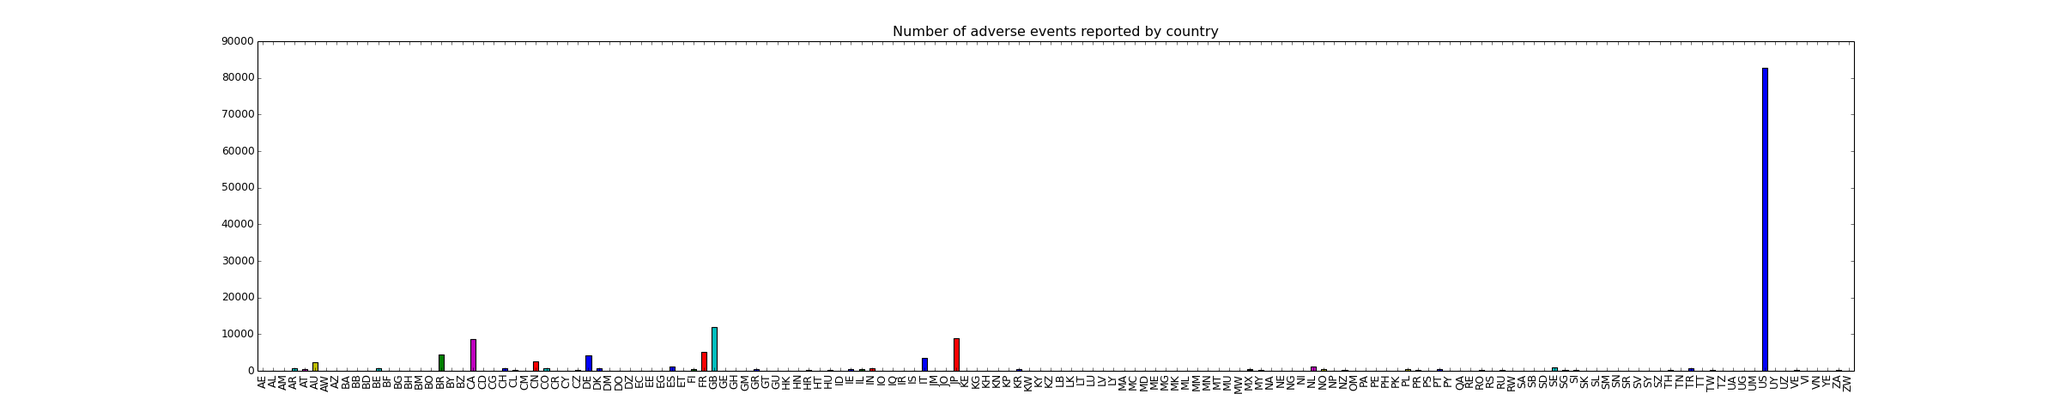
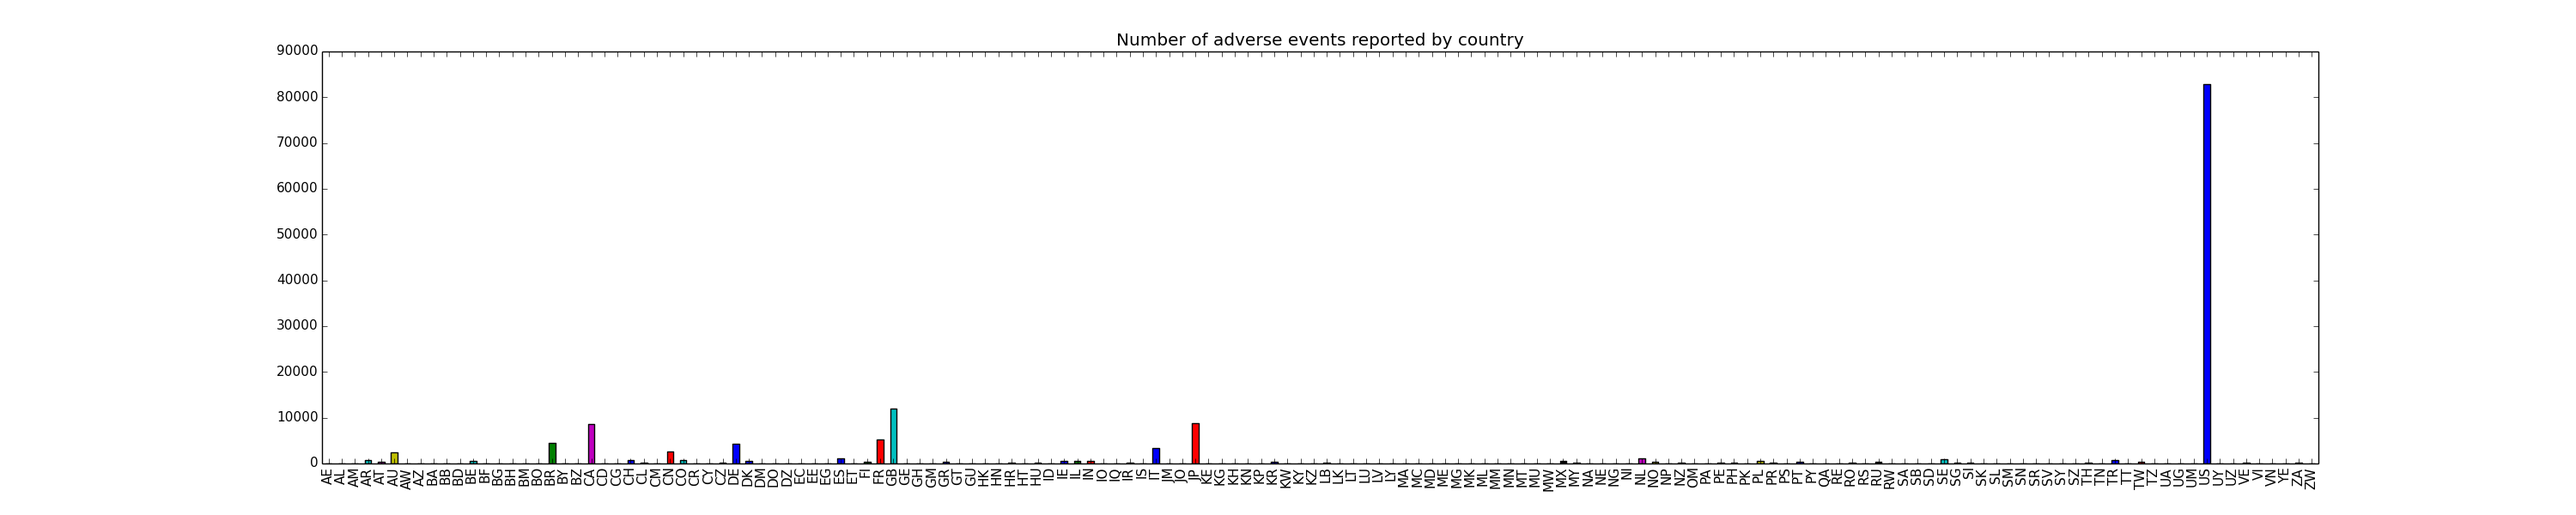
normalised reactions, heatmap

diff --git a/src/reporter.py b/src/reporter.py
@@ -3,6 +3,8 @@
 import matplotlib.pyplot as plt
 import pandas
 
+from scipy.spatial.distance import euclidean, pdist, squareform
+
 from src.openfda import get_reactionmeddrapt_event_count_by_occurcountry, OpenFDA
 
 
@@ -31,25 +33,35 @@ class Report:
             else:
                 # terms for which no results are returned need to be removed
                 missing_terms.append(r)
-        final_df = pandas.concat(df_append, axis = 1)
+        final_df = pandas.concat(df_append, axis=1)
         final_df.columns = [x for x in self.reaction_counts.term[90:100] if x not in missing_terms]
         print(final_df.shape)
-        return final_df
+        return final_df.fillna(0)
 
     def report_reactionmeddrapt_by_occurcountry(self):
         df = self.get_reactionmeddrapt_by_occurcountry()
 
-        fig = plt.figure()
+        plt.figure()
         df.sum(axis=1).plot(kind="bar", figsize=(30, 6), fontsize=11)
         plt.title("Number of adverse events reported by country")
-        fig.savefig("../output/reactions_by_country.png", dpi=fig.dpi)
+        plt.gcf().savefig("../output/reactions_by_country.png", dpi=100)
 
-        fig = plt.figure()
+        plt.figure()
         df.transpose().describe().loc["count"].sort_values().plot(kind="bar", figsize=(32, 12), fontsize=11)
         plt.title("Number of distinct adverse events reported by country")
-        fig.savefig("../output/distinct_reactions_by_country.png", dpi=fig.dpi)
+        plt.gcf().savefig("../output/distinct_reactions_by_country.png", dpi=100)
 
-        fig = plt.figure()
+        plt.figure()
         df.transpose().describe().loc["count"].plot(kind="hist", figsize=(15, 3), fontsize=11)
         plt.title("Histogram of number of distinct adverse events reported by country")
-        fig.savefig("../output/hist_distinct_reactions_by_country.png", dpi=fig.dpi)
+        plt.gcf().savefig("../output/hist_distinct_reactions_by_country.png", dpi=100)
+
+        plt.figure()
+        df.divide(df.sum(axis=1), axis=0).plot(kind="bar", figsize=(32, 12), fontsize=11, stacked=True)
+        plt.title("Normalised adverse events reported by country")
+        plt.gcf().savefig("../output/normalised_reactions_by_country.png", dpi=100)
+
+        dists = pdist(df.divide(df.sum(axis=1), axis=0), euclidean)
+        similarity_df = pandas.DataFrame(squareform(dists), columns=df.index, index=df.index)
+        plt.imshow(similarity_df, cmap='hot', interpolation='nearest')
+        plt.gcf().savefig("../output/similar_countries_heatmap.png", dpi=100)
